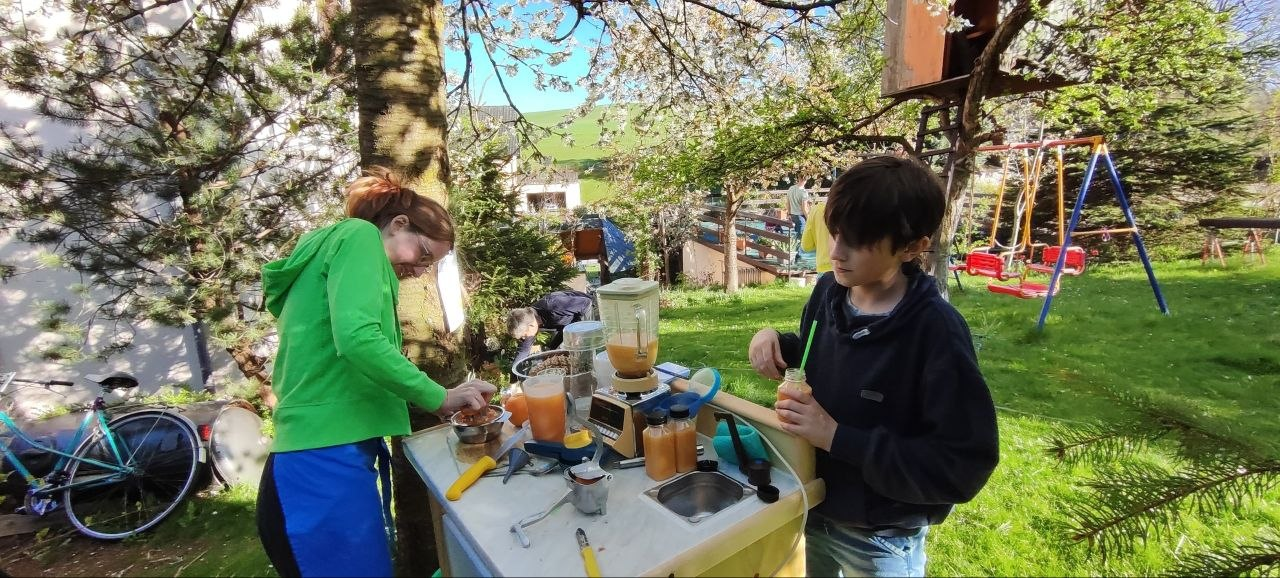
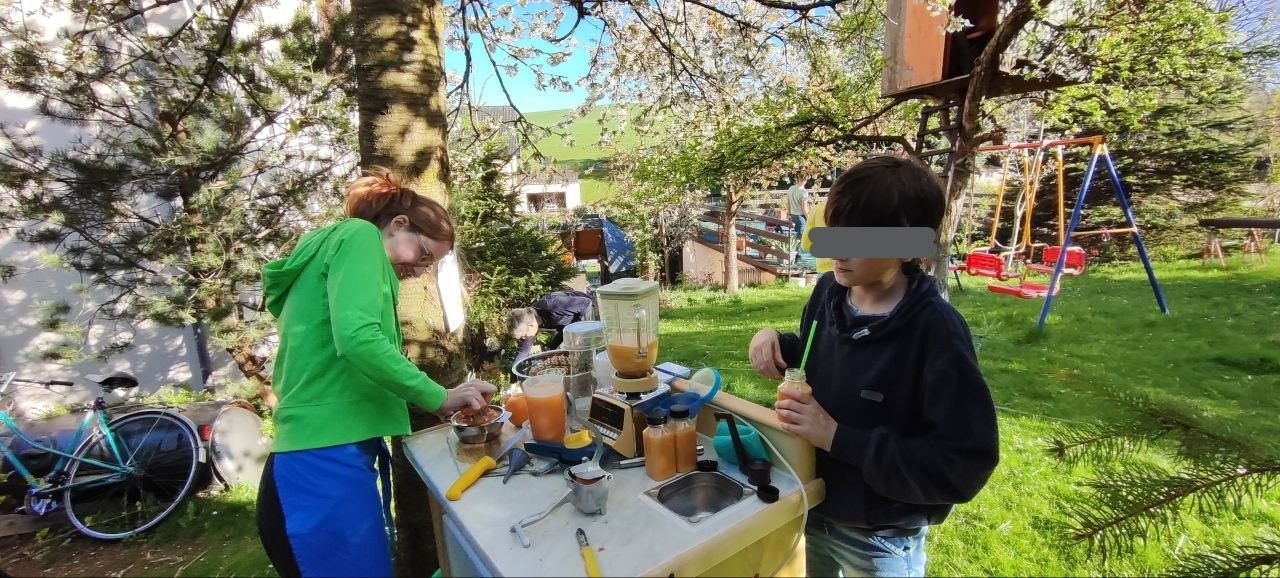
vorteil mitgiledschaft, verpixeln von bildrn

Changed region(s): [[0.625, 0.3737, 0.75, 0.4671]]

diff --git a/webpages/verein/index.html b/webpages/verein/index.html
@@ -553,7 +553,7 @@ window.addEventListener("DOMContentLoaded", () => { loadCalendar(); loadNews(); 
         <p>
             Wir helfen bei Organisation,
             Infrastruktur,
-            Zusammenarbeit
+            Zusammenarbeit, Netzwerk
             und praktischer Umsetzung.
         </p>
 
@@ -588,8 +588,20 @@ window.addEventListener("DOMContentLoaded", () => { loadCalendar(); loadNews(); 
         Design
         oder soziale Arbeit:
         Wenn du sinnvoll mithelfen möchtest,
-        bist du willkommen.
+        bist du willkommen, auch ohne Mitgliedstatus.
     </p>
+        <p>
+    Wer dauerhaft dabei sein und Dinge unter dem Vereinsdach
+    umsetzen will, kann Mitglied werden.
+    Das kostet aktuell nichts und ermöglicht:
+    </p>
+    <ul>
+    <li>Projekte und Experimente ohne eigene Gewerbeanmeldung durchführen</li>
+    <li>Materialkosten und Aufwände über den Verein abrechnen</li>
+    <li>Tätigkeiten unabhängig von der eigenen wirtschaftlichen Situation vergütet bekommen</li>
+    <li>Kompetenzen und Lizenzen anderer Mitglieder mitnutzen</li>
+    <li>Mitsprache bei der Ausrichtung des Vereins</li>
+</ul>
 <div id="calendar"></div>
 
 <div id="eventbox" class="card" style="display:none; margin-top:20px;">
